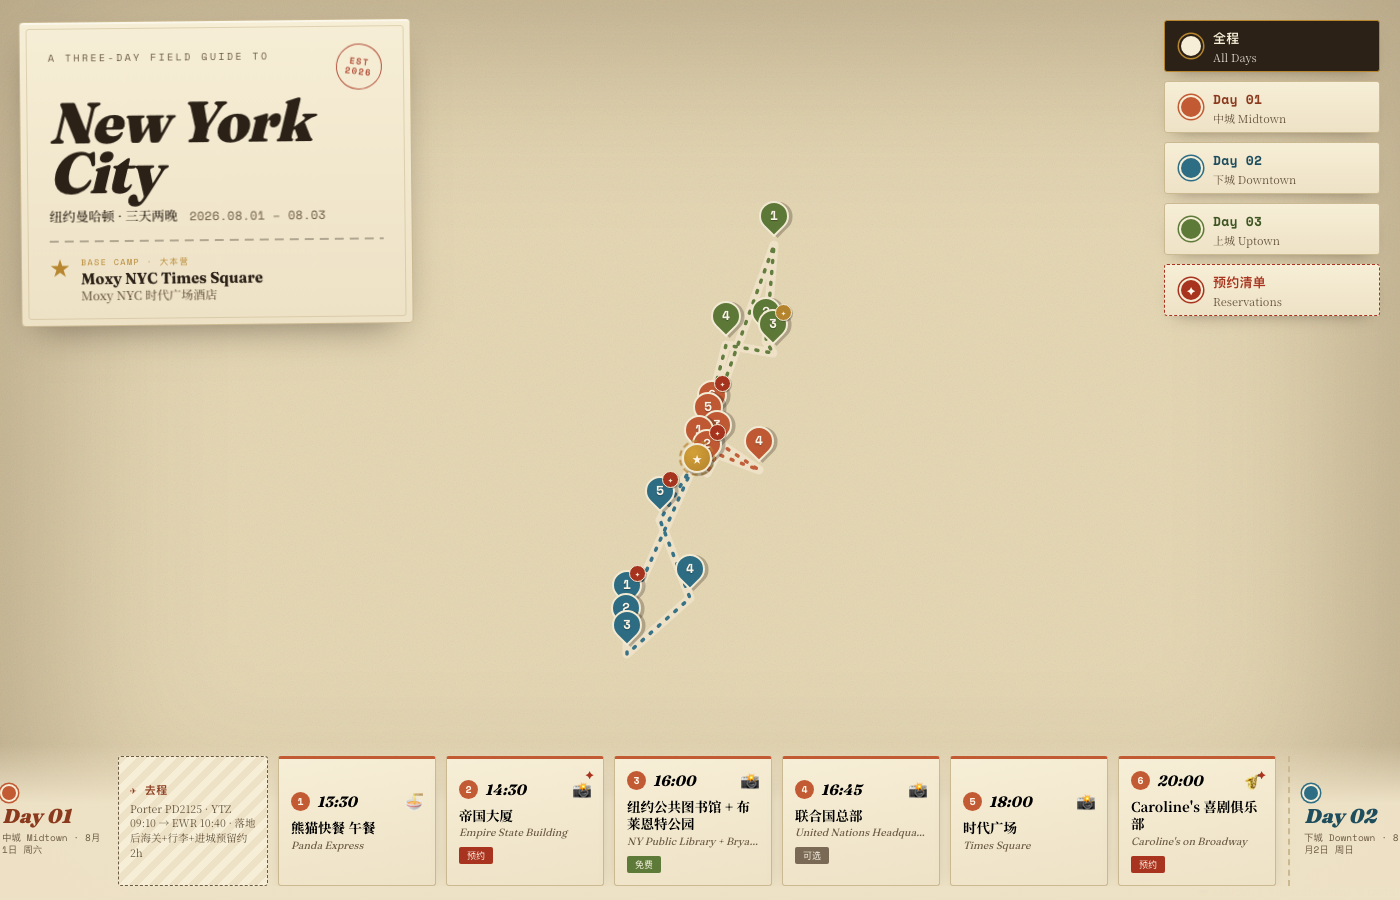
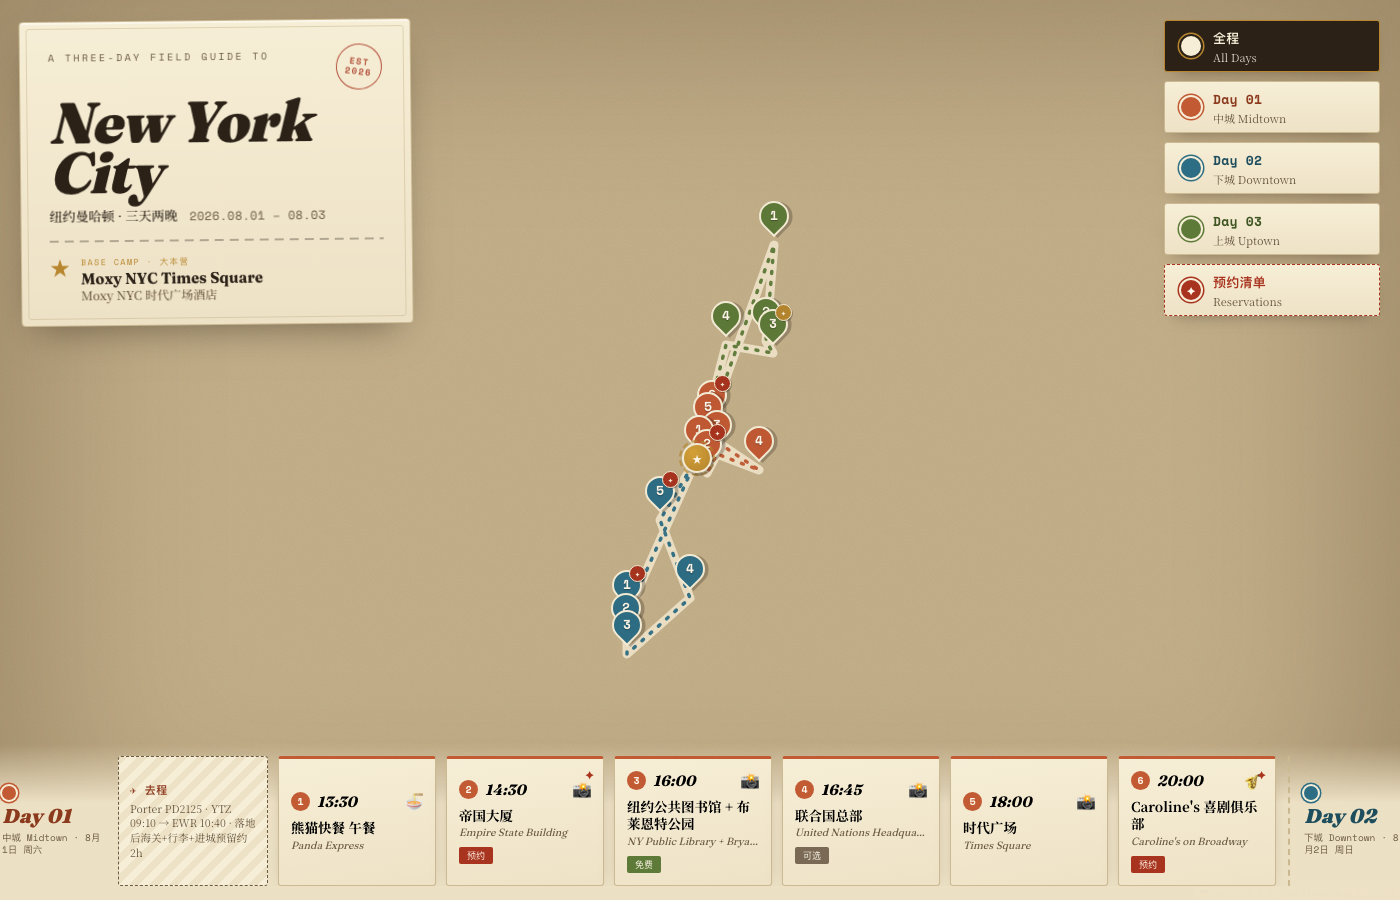
做旧叠层改为地图内部低层 pane：保留叠层观感，图钉恢复鲜亮
- 用 map.createPane 在瓦片(z200)之上、路线(z400)与图钉(z600)之下插入两层
  做旧 pane（saturation 降饱和 + multiply 暖色），只做旧瓦片
- 路线与图钉在更高层级，不受叠层影响 → 鲜亮跳出
- 叠层随地图平移缩放，覆盖始终正确
- 瓦片保持无滤镜，缩放沿用默认灵敏度，流畅

diff --git a/src/MapView.jsx b/src/MapView.jsx
@@ -29,6 +29,33 @@ function PanTo({ id }) {
   return null
 }
 
+// 做旧叠层：作为地图内部的低层 pane，压在瓦片(z200)之上、路线(z400)与图钉(z600)之下。
+// 这样只有瓦片被做旧，路线和图钉始终鲜亮；叠层随地图一起平移缩放，覆盖始终正确。
+const WORLD = [
+  [-85.05, -180],
+  [85.05, 180],
+]
+function VintagePanes() {
+  const map = useMap()
+  useEffect(() => {
+    if (map.getPane('vintageDesat')) return
+    // 降饱和：灰色 + saturation 混合，得到旧地图的褪色感
+    const desat = map.createPane('vintageDesat')
+    desat.style.zIndex = 250
+    desat.style.pointerEvents = 'none'
+    desat.style.mixBlendMode = 'saturation'
+    // 暖色相乘：压成泛黄旧纸，但保持整体明亮
+    const warm = map.createPane('vintageWarm')
+    warm.style.zIndex = 251
+    warm.style.pointerEvents = 'none'
+    warm.style.mixBlendMode = 'multiply'
+
+    L.rectangle(WORLD, { pane: 'vintageDesat', stroke: false, fillColor: '#8a8a8a', fillOpacity: 0.32, interactive: false }).addTo(map)
+    L.rectangle(WORLD, { pane: 'vintageWarm', stroke: false, fillColor: '#e0b978', fillOpacity: 0.46, interactive: false }).addTo(map)
+  }, [map])
+  return null
+}
+
 export default function MapView({ visibleDays, activeDay, selectedId, onSelect }) {
   // 每天的路线 = 酒店 → 各站 → 酒店
   const routes = useMemo(
@@ -56,15 +83,14 @@ export default function MapView({ visibleDays, activeDay, selectedId, onSelect }
       scrollWheelZoom
       className="leaflet-canvas"
     >
-      {/* 单层瓦片，只给瓦片本身上一层"轻做旧"滤镜（不影响 marker 图层，所以图钉依旧鲜亮）。
-          用 will-change 把该层提升为 GPU 合成层，缩放时缩放的是已缓存的纹理而非逐帧重算滤镜，因此流畅。 */}
+      {/* 普通 Voyager 瓦片（无滤镜，GPU 可直接合成，缩放流畅）；做旧交给下方的低层 pane。 */}
       <TileLayer
-        className="vintage-tiles"
         url="https://{s}.basemaps.cartocdn.com/rastertiles/voyager/{z}/{x}/{y}{r}.png"
         attribution='&copy; OpenStreetMap &copy; CARTO'
         subdomains="abcd"
         maxZoom={19}
       />
+      <VintagePanes />
 
       {/* 路线：先画每条的"纸底描边"，再画彩色虚线 */}
       {routes.map((d) => {

diff --git a/src/index.css b/src/index.css
@@ -71,13 +71,8 @@ button { font-family: inherit; cursor: pointer; }
   z-index: 1;
 }
 
-/* 轻做旧滤镜：只作用在瓦片图层上（marker/路线在各自的图层，不受影响，因此图钉保持鲜亮）。
-   偏亮的 brightness + 温和 sepia，避免地图发暗；will-change 把该层常驻为 GPU 合成层，
-   缩放时缩放的是已缓存纹理，不会逐帧重算滤镜，因而流畅。 */
-.vintage-tiles {
-  filter: sepia(0.32) saturate(0.86) brightness(1.08) contrast(0.94) hue-rotate(-6deg);
-  will-change: transform;
-}
+/* 做旧质感通过地图内部的低层 pane 实现（见 MapView 的 VintagePanes）：
+   叠层压在瓦片之上、路线与图钉之下，因此只做旧瓦片，图钉与路线保持鲜亮。 */
 
 .leaflet-container { font-family: var(--font-mono); }
 .leaflet-control-attribution {